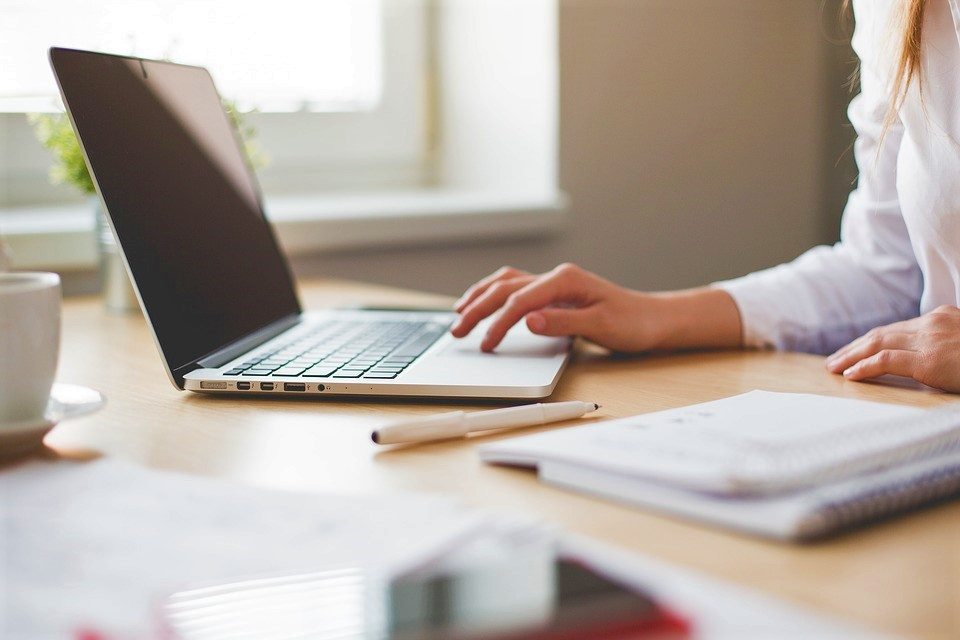
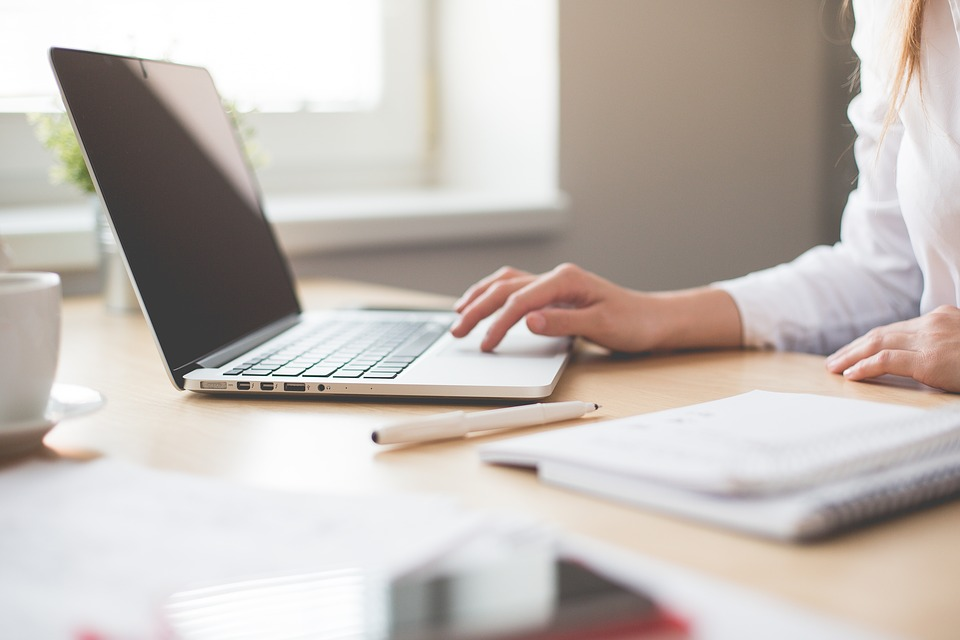
updates to hero

diff --git a/app/assets/stylesheets/master.scss b/app/assets/stylesheets/master.scss
@@ -30,8 +30,8 @@
 .hero {
   border-top: 2px solid #d3d3d3;
   margin-top: 0;  
-  background: image_url('hero4.jpg');
-  background: image_url('hero4.jpg') no-repeat center center relative;
+  background: image_url('hero2.jpg');
+  background: image_url('hero2.jpg') no-repeat center center relative;
   -webkit-background-size: cover;
   -moz-background-size: cover;
   -o-background-size: cover;
@@ -40,7 +40,6 @@
   box-shadow: 0px -1px 1px #2a2a2a;
   border-top: solid 1px #d3d3d3;
   z-index: -2;
-  
 }
 
 button.navbar-toggler.navbar-toggler-right {
@@ -78,15 +77,6 @@ button.navbar-toggler.navbar-toggler-right {
   width: 10%;
   text-align: center;
   border-color: #48c9b0;
-}
-
-
-.left {
-  float: left;
-}
-
-.right {
-  float: right;
 }
 
 .hire {
